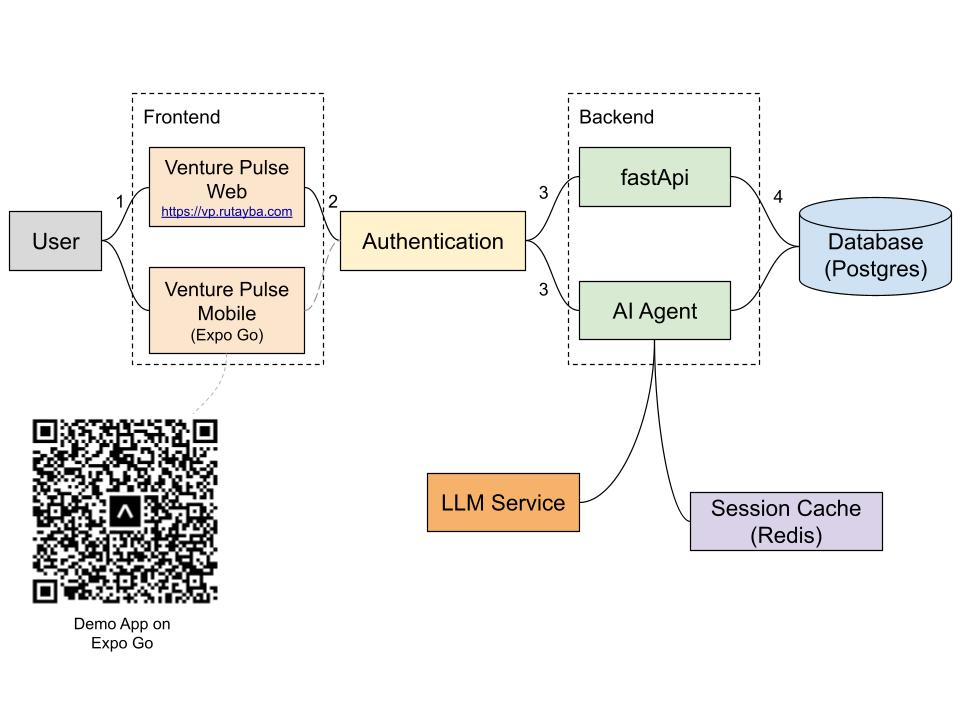
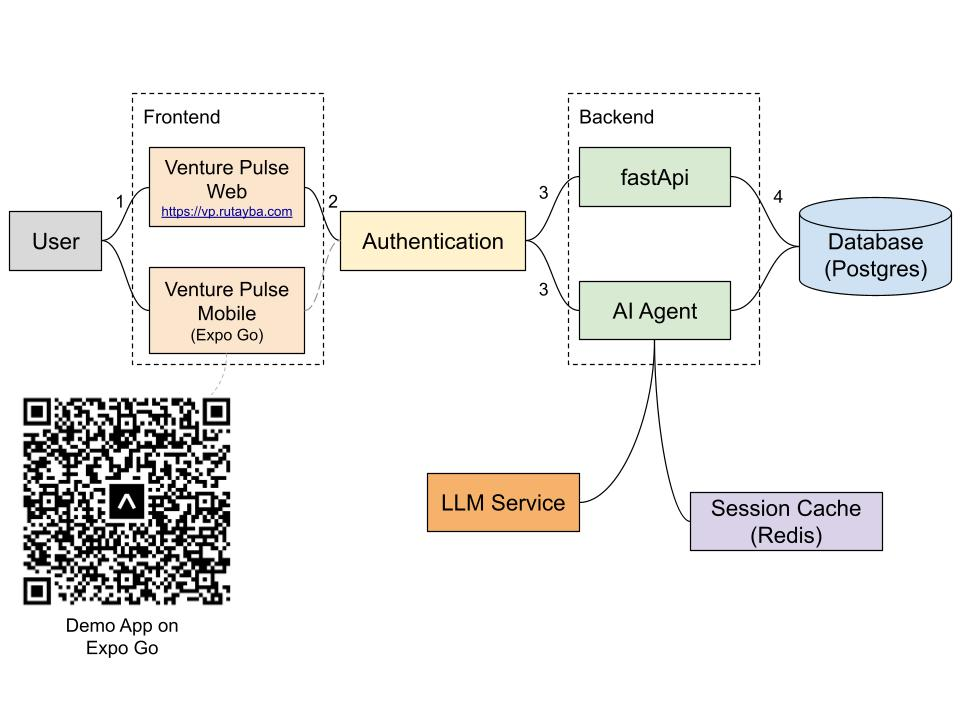
updated app qrcode

Changed region(s): [[0.0, 0.55, 0.25, 0.9167]]

diff --git a/mobile-app/src/components/AICommandInput.tsx b/mobile-app/src/components/AICommandInput.tsx
@@ -114,6 +114,9 @@ export const AICommandInput = ({ onResults, onClear }: Props) => {
             if (result.data?.ventures) {
                 setSummary(result.answer || "Analysis complete.");
                 onResults(result.data.ventures); // Update list in parent
+            } 
+            else {
+                setSummary(result.answer || "Analysis complete.");
             }
         } catch (error: any) {
             // Show a user-friendly message in the AI Insight box
